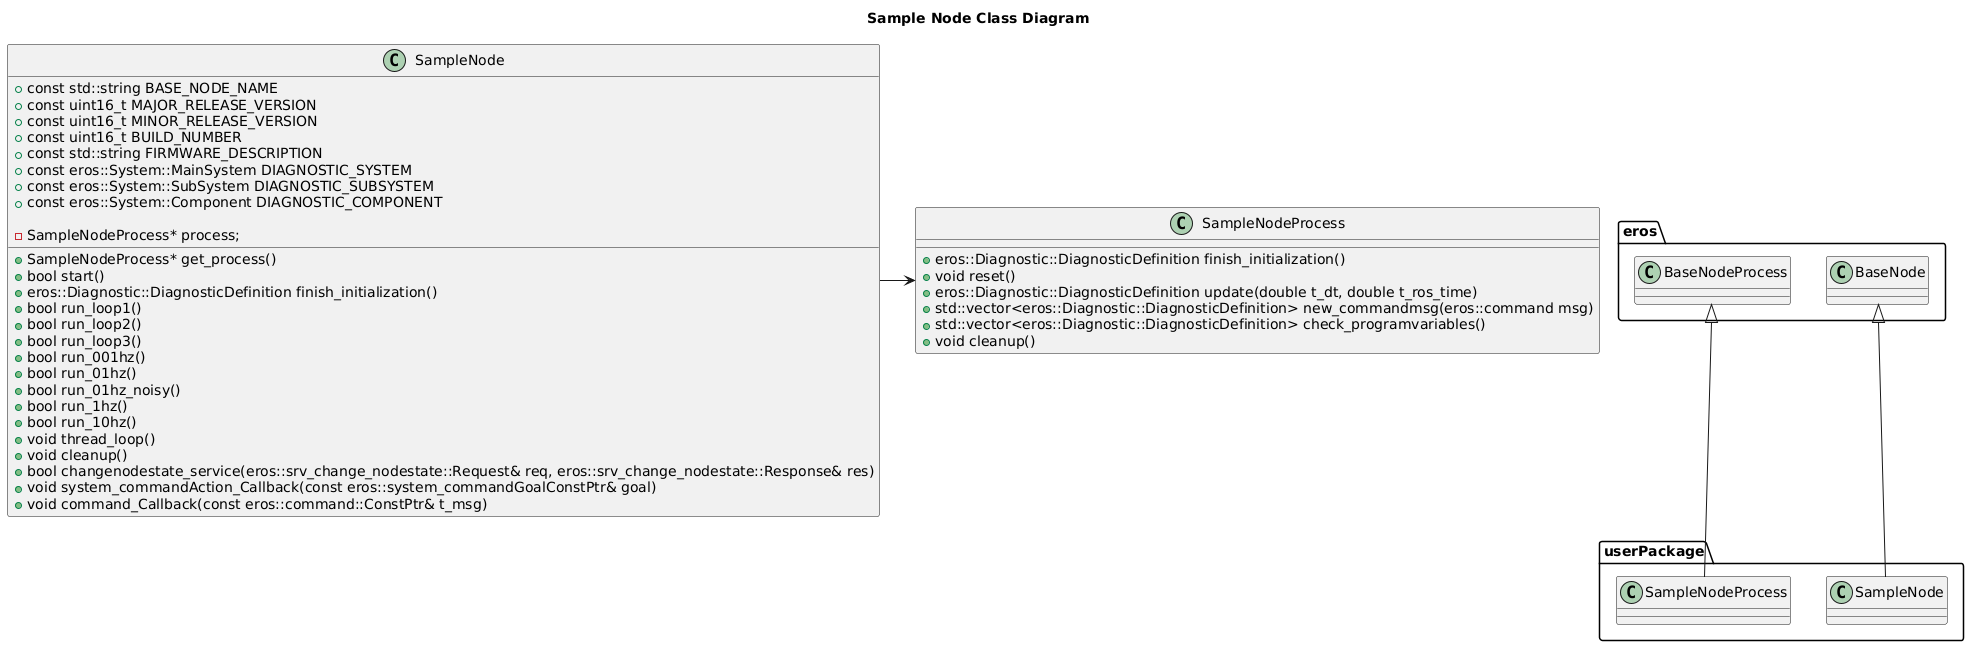
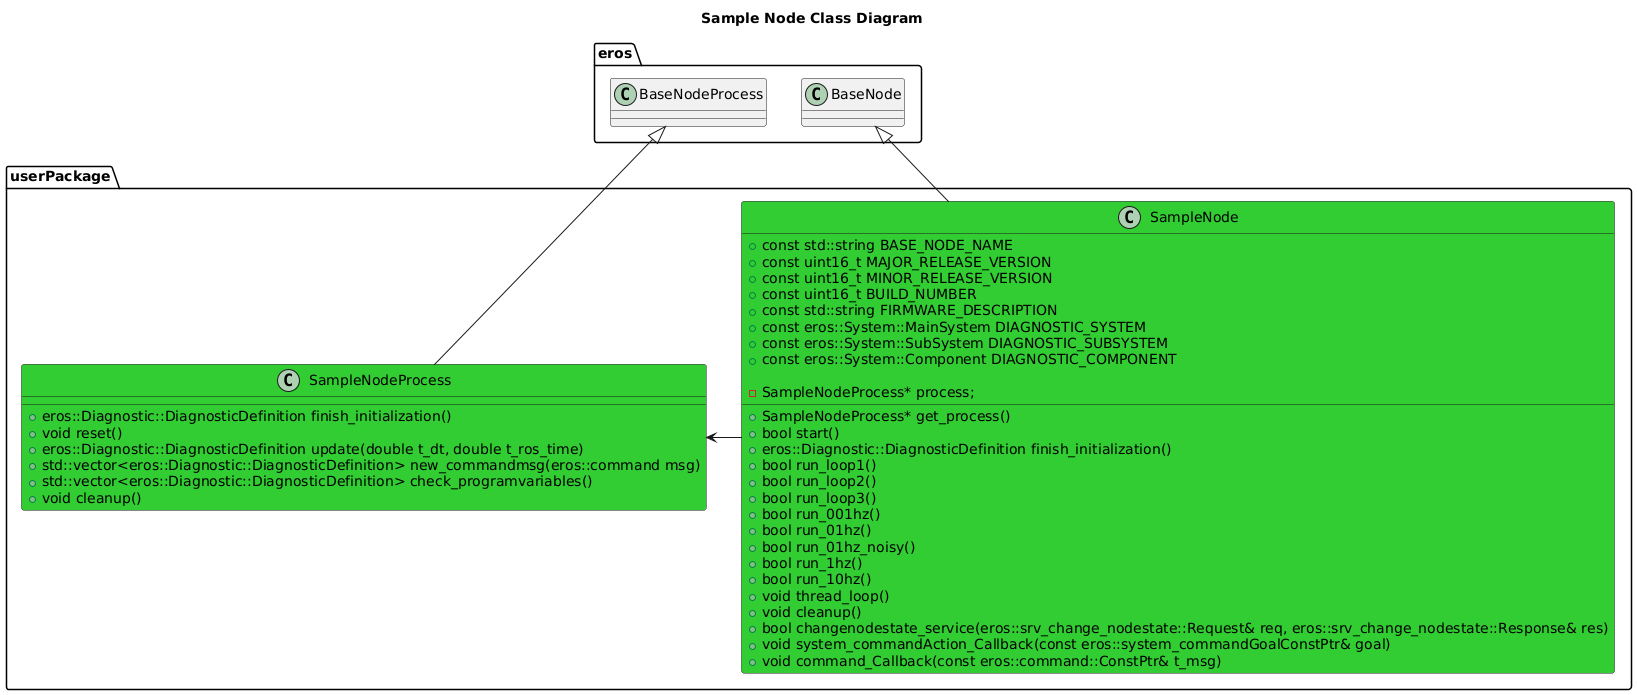
Finished up some feature docs

diff --git a/doc/Features/Features.md b/doc/Features/Features.md
@@ -1,13 +1,17 @@
+# eROS Features
+eROS has different features to help make your robot more robust.  Here is some documentation.
+
 | Status | Feature |
 | --- | --- |
 | DRAFT | [Arm & Disarm](ArmDisarm/ArmDisarm.md) |
 | DRAFT | [Base Node](BaseNode/BaseNodeOverview.md) |
-| DRAFT | [Data Logger](DataLogger/DataLogger.md) |
+| READY | [Data Logger](DataLogger/DataLogger.md) |
 | DRAFT | [Diagnostics](Diagnostics/Diagnostics.md) |
-| DRAFT | [Logger](Logger/Logger.md) | 
+| READY | [Logger](Logger/Logger.md) | 
 | DRAFT | [Master Control](MasterControl/MasterControl.md) |
+| READY | [Resource Monitor](ResourceMonitor/ResourceMonitor.md) |
 | DRAFT | [Safety Control](SafetyControl/SafetyControl.md) |
 | DRAFT | [Snapshot](Snapshot/Snapshot.md) |
 | DRAFT | [Software Sync](SoftwareSync/SoftwareSync.md) |
 | DRAFT | [System Monitor](SystemMonitor/SystemMonitor.md) |
-| DRAFT | [Templates](Templates/Templates.md) |
+| READY | [Templates](Templates/Templates.md) |

diff --git a/doc/Features/DataLogger/DataLogger.md b/doc/Features/DataLogger/DataLogger.md
@@ -1,14 +1,20 @@
+# Data Logger
+
+## Overview
 No more running ```rosbag record --all``` from the command line again!
 
 The DataLogger Node can be used to record topics to a bag file.  This can work by either writing directly to the disk or by storing in RAM, and then a snapshot trigger is used to write to disk.
 
-# Features
+## Features
 - No-Snapshot Mode: Will always write to disk.  
 - Snapshot Mode: Only writes to disk when the topic ```/snapshot_trigger``` is triggered.  Note: This can eat up a large amount of RAM, especially with large ros data traffic.
 - Snapshot file is created when trigger is generated, which includes information about the snapshot.
 - Configurable directory where bag files are stored.
 
-# Future Features
-- Regex Include/Exclude topics
-- Circular buffer for log files.
-- Clear RAM buffer when usage is too high
+## Software Design
+![](../../output/Legend.png)
+### Class Diagrams
+>>> TODO
+
+### Sequence Diagrams
+>>> TODO

diff --git a/doc/Features/Templates/Templates.md b/doc/Features/Templates/Templates.md
@@ -1,7 +1,18 @@
-# Creating content from a Template
-EROS features a few cookie cutter templates.  To use these you will need to install cookiecutter at the following:  https://cookiecutter.readthedocs.io/en/1.7.2/installation.html
+# Templates
 
-# Usage
+## Overview
+eROS provides a few different templates that can be used to create nodes and classes that use all the eROS functionality.  
+
+## Software Design
+![](../../output/Legend.png)
+### Class Diagrams
+![](../../../sample/SampleNode/SampleNode/doc/output/SampleNodeClassDiagram.png)
+
+## Usage
+### Setup
+To use these you will need to install cookiecutter at the following:  https://cookiecutter.readthedocs.io/en/1.7.2/installation.html
+
+### Usage
 Inspect what templates are currently available and determine if these will fit your application needs.  These include:\
 **EROS-CLASS** (auto_template/class)\
 **EROS-NODE** (auto_template/node)

diff --git a/doc/Features/Logger/Logger.md b/doc/Features/Logger/Logger.md
@@ -1,3 +1,9 @@
+# Logger
+
+## Overview
+The eROS Logger gives you a nice way of printing out to console and to text files, to aid in debugging your contnet.
+
+## Features
 The EROS Logger has the following features:
 * No ROS Dependencies (i.e. can be used in Nodes, Unit Tests, etc).
    * Can be used with ROS Console Output if Installed/Enabled.
@@ -10,8 +16,12 @@ The EROS Logger has the following features:
 * Logger can take as an input either "std::string" or a Diagnostic.
 * Can be used in a Node or in a Unit Test
 
-![](https://github.com/dgitz/eros/blob/master/doc/Logger/output/LoggerClassDiagram.svg)
-# Examples:
+## Software Design
+![](../../output/Legend.png)
+### Class Diagram
+![](../../../include/eros/doc/output/LoggerClassDiagram.png)
+
+## Examples
 ```
 logger->log_notice("Hello World");
 logger->log_debug("Another String of length: " + std::to_string(2));

diff --git a/doc/Features/ResourceMonitor/ResourceMonitor.md b/doc/Features/ResourceMonitor/ResourceMonitor.md
@@ -1,0 +1,12 @@
+# Resource Monitor
+
+## Overview
+The Resource Monitor provides the capability of monitoring resources used and resources available per Node and per Device.
+
+## Features
+
+## Software Design
+![](../../output/Legend.png)
+
+### Class Diagram
+![](../../../include/eros/doc/output/ResourceMonitorClassDiagram.png)
